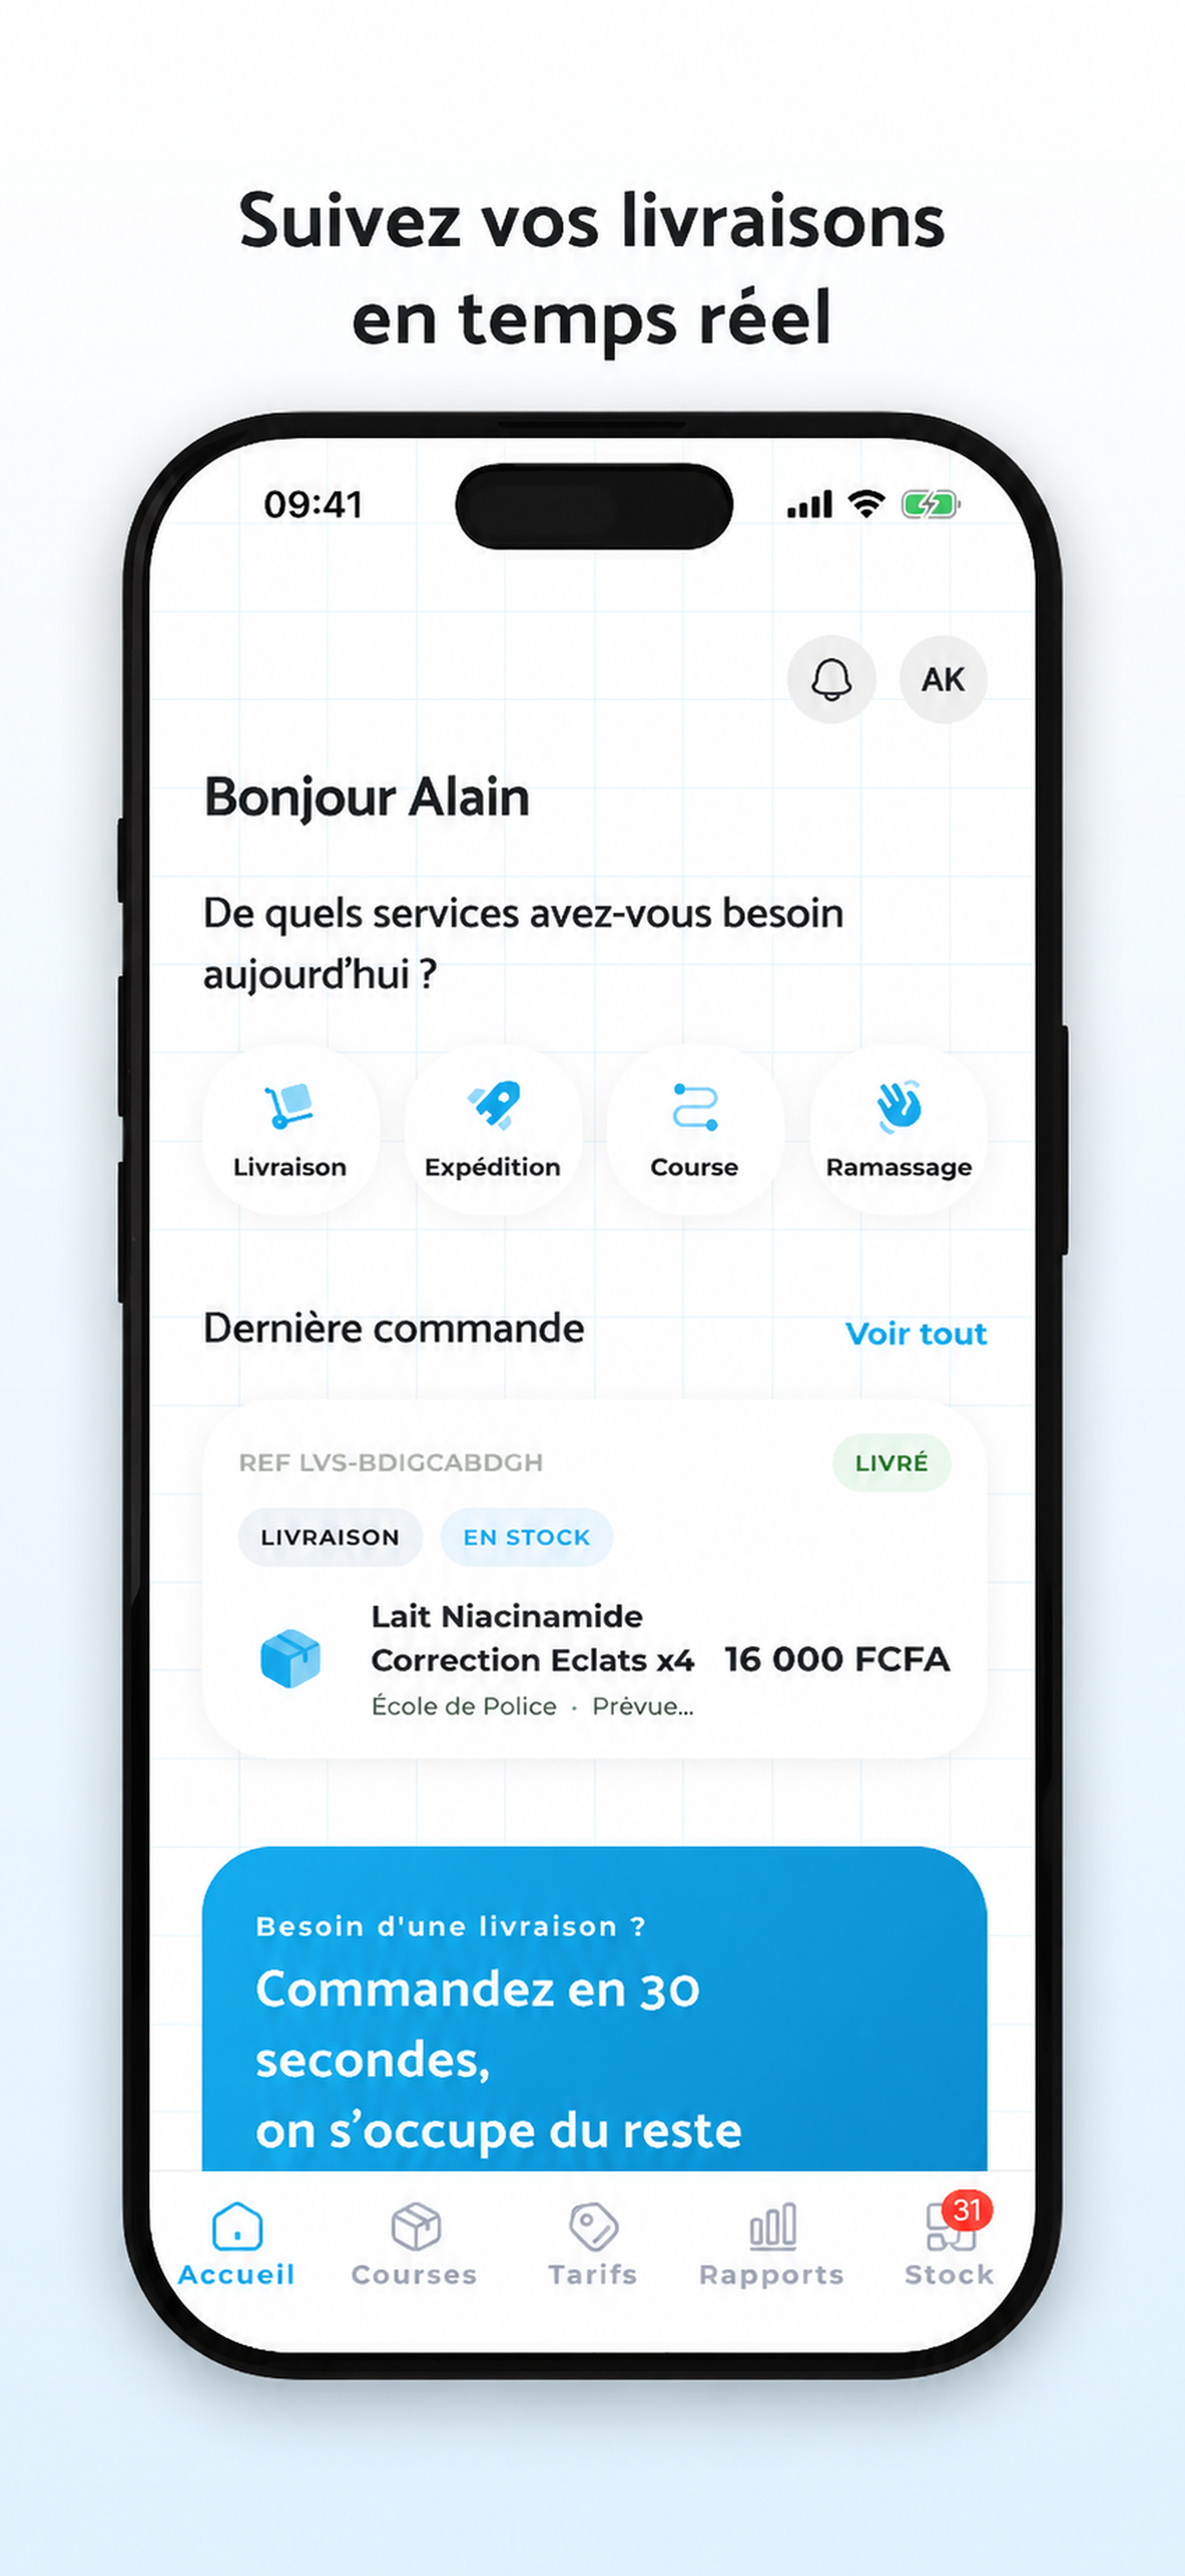
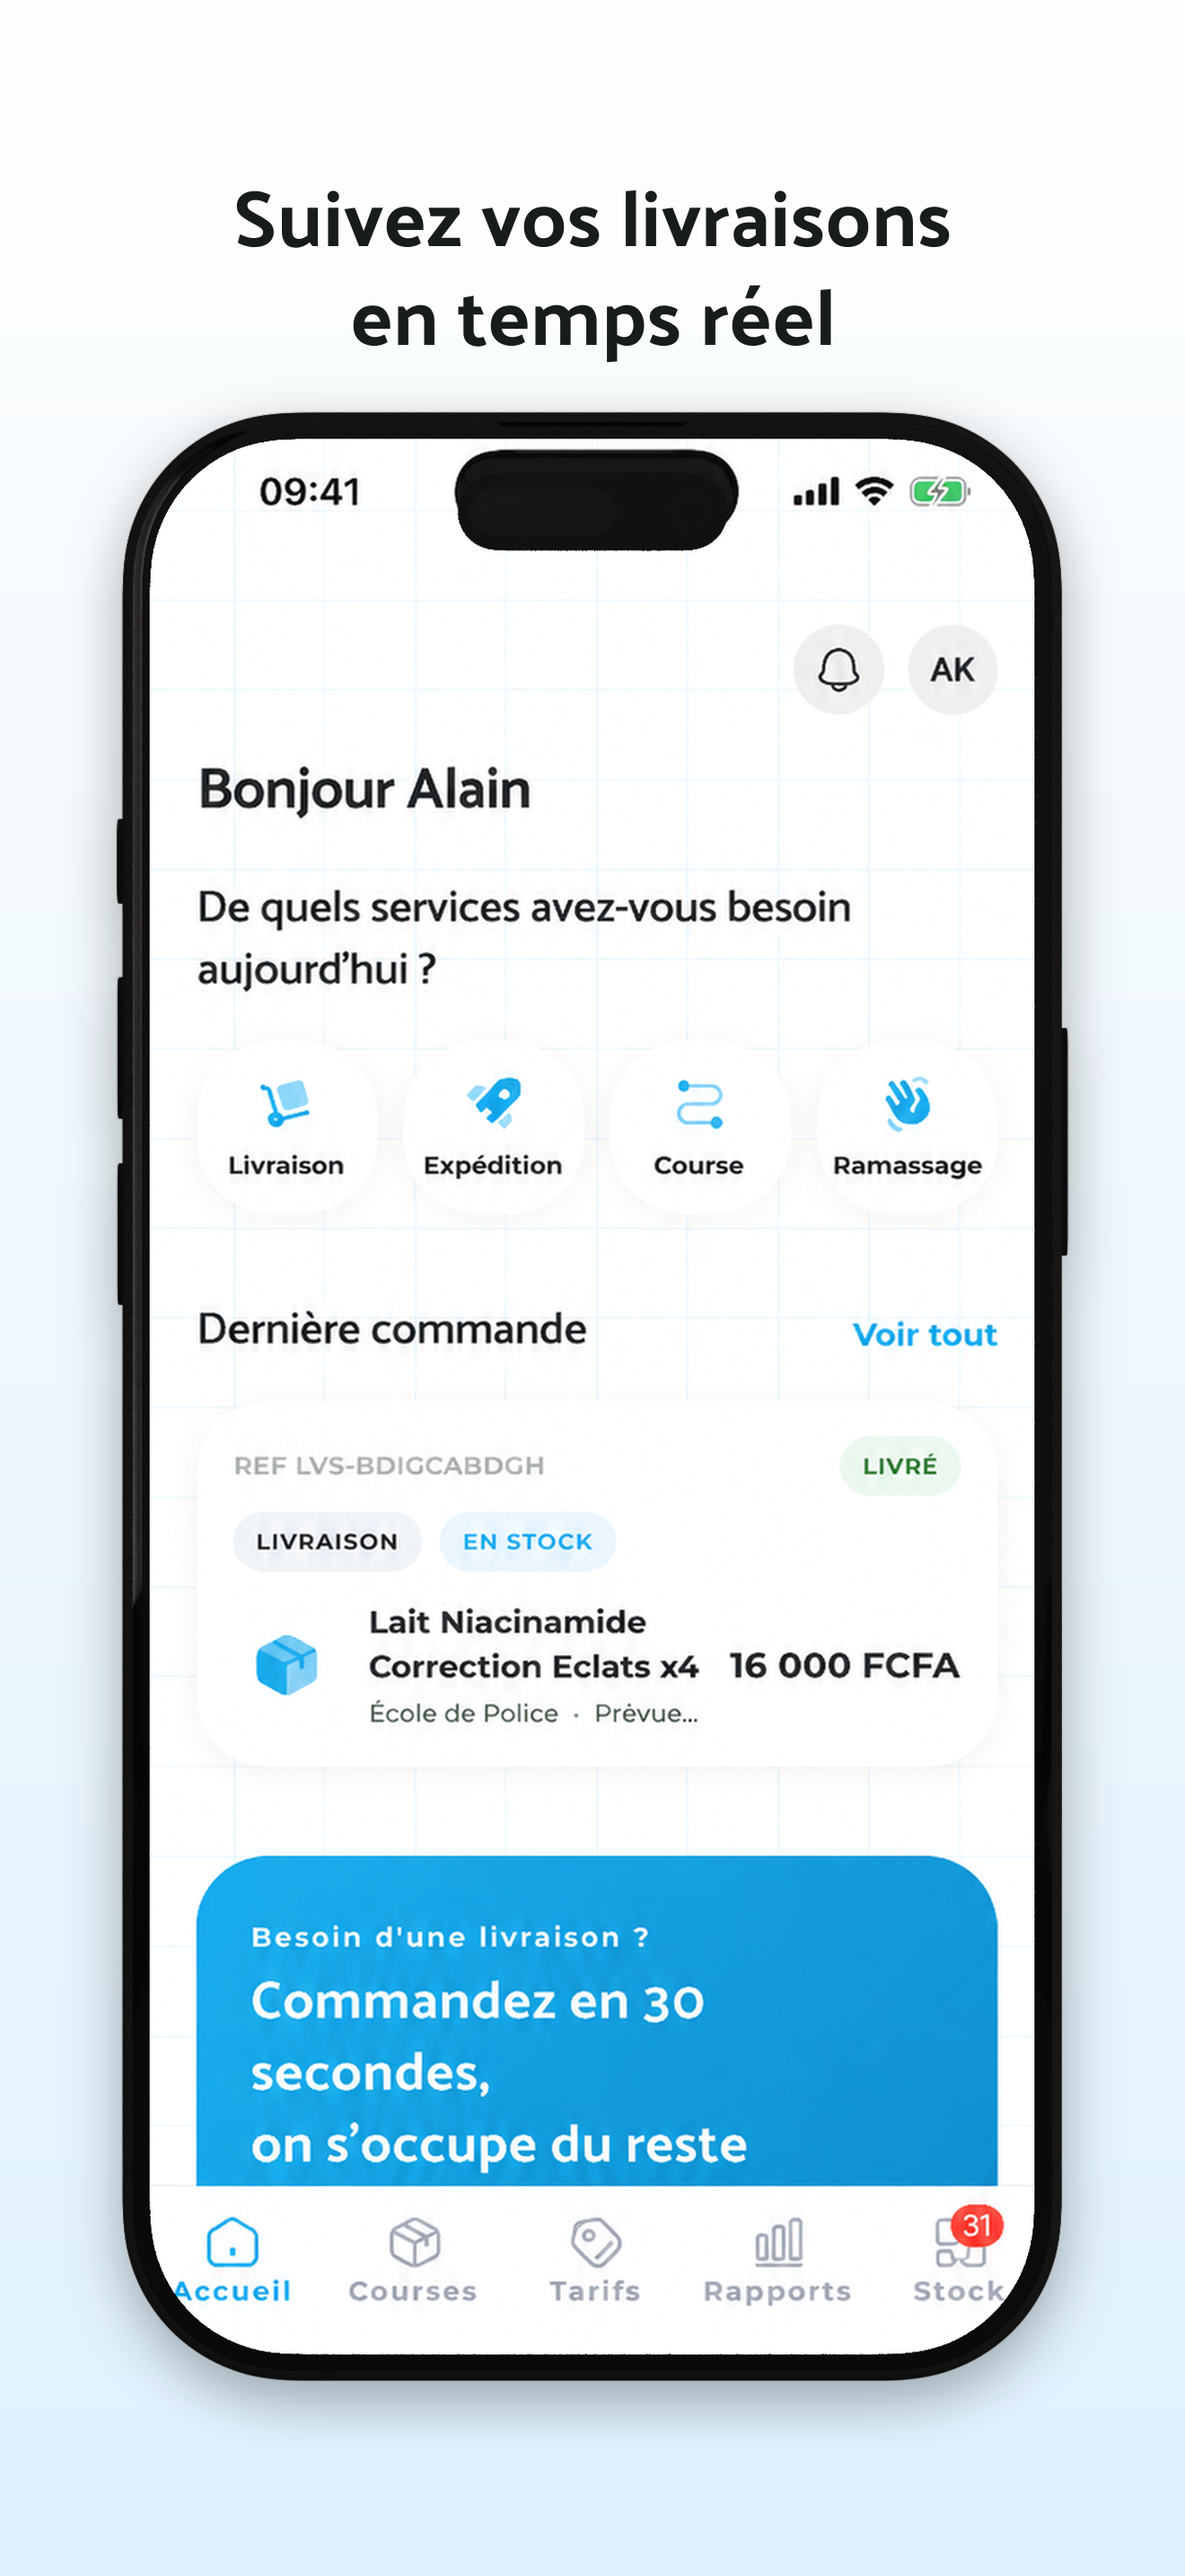
chore(store): feed the renamed-user capture through the whole pipeline
Extracts the app screen from the AI-edited hero (auto-detected bounds,
corner cleanup, upscale to raw size) into store/01-accueil-alain-raw.png
and makes it the pipeline's hero input, so ios, ios-large and play hero
visuals all show the renamed user and survive regeneration.

diff --git a/sreenshots/compose_store.py b/sreenshots/compose_store.py
@@ -40,7 +40,8 @@ BG_LIGHT_BOTTOM = (224, 242, 254)  # colors.iconBg
 IOS_STATUS_BAR_CROP = 170  # px of raw capture holding iOS status bar + island
 
 SHOTS = [
-    ("01-accueil.png", ["Suivez vos livraisons", "en temps réel"]),
+    # alain-raw: AI-renamed variant of 01-accueil.png (staging account name hidden)
+    ("01-accueil-alain-raw.png", ["Suivez vos livraisons", "en temps réel"]),
     ("07-demande.png", ["Commandez une livraison", "en quelques gestes"]),
     ("03-detail.png", ["Chaque étape,", "sous vos yeux"]),
     ("08-inbox.png", ["Soyez alerté", "à chaque mouvement"]),
@@ -289,7 +290,7 @@ def main():
     for i, (name, caption) in enumerate(SHOTS, start=1):
         style = "light" if i % 2 == 1 else "gradient"
         raw = os.path.join(RAW, name)
-        slug = os.path.splitext(name)[0].split("-", 1)[1]
+        slug = os.path.splitext(name)[0].split("-", 1)[1].replace("-alain-raw", "")
 
         # App Store Connect accepted sizes: 1206x2622 (6.1"/6.3") and 1320x2868 (6.9")
         compose(raw, caption, style, (1206, 2622), 80, 972, MOCK_IPHONE).save(
